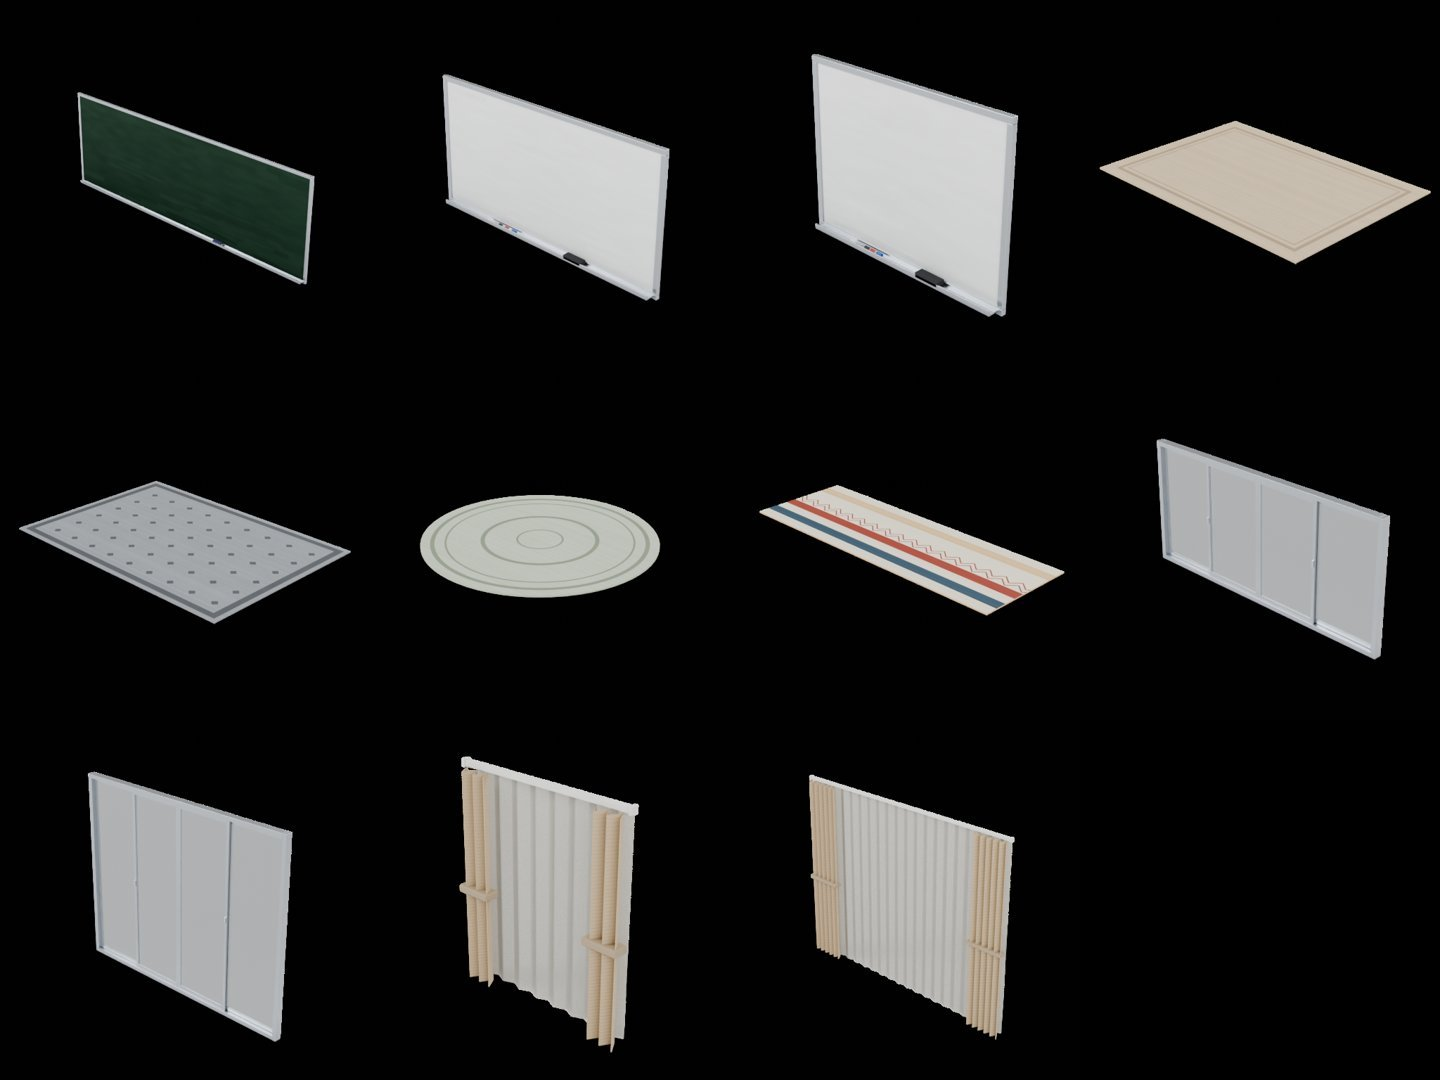
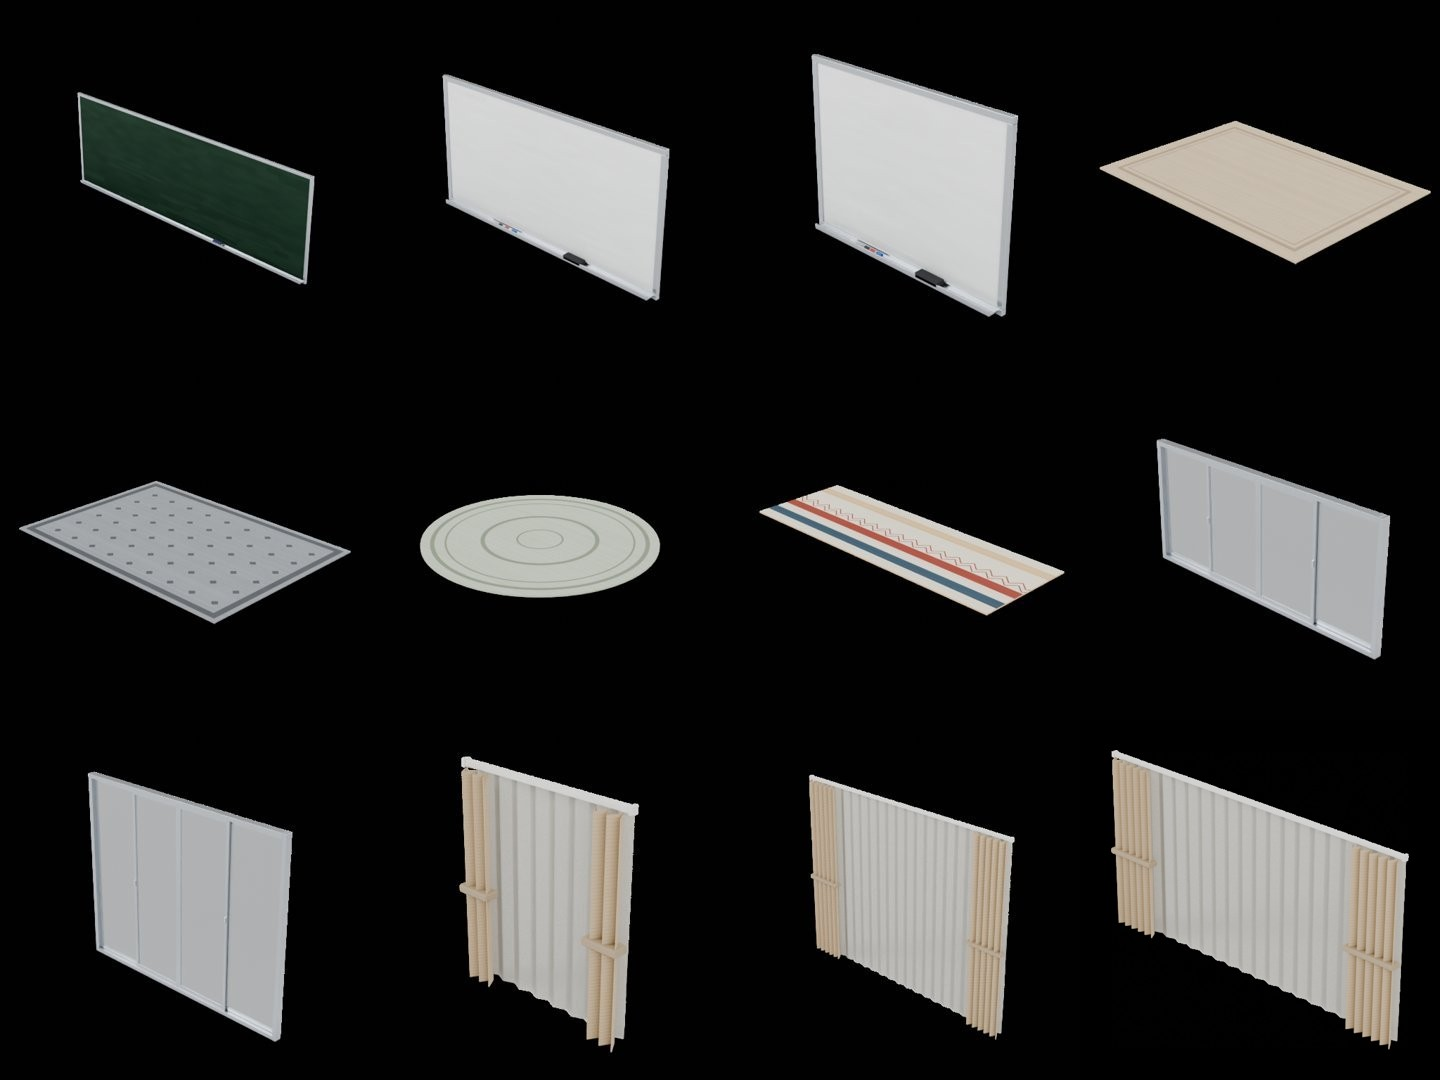
fictional: wide waist-window curtain, 2.8 x 1.35 m
The wide four-pane waist window (2560 mm) had only the 1.9 m waist-window
curtain, narrower than the window. curtain_wide_waist_window has the wide
curtain's 2.8 m rail and pleats with the waist curtain's 1350 mm drop.
577 fictional products; the index, docs and the preview image are updated.

Changed region(s): [[0.75, 0.7028, 1.0, 0.9778]]

diff --git a/src/agentic_usd_gen/fictional/windows.py b/src/agentic_usd_gen/fictional/windows.py
@@ -351,6 +351,14 @@ def curtain_small_window() -> Product:
                                 "ベージュの厚手のひだ 2 枚と白いレース）で、寸法・質量は代表値。")
 
 
+def curtain_wide_waist_window() -> Product:
+    return _curtain("curtain_wide_waist_window", "幅の広い腰窓用のカーテン（厚手 2 枚・レース、レール付き）幅 2.8 m・丈 1.35 m",
+                    2.80, 1.35, mass=6.5, gather=0.42, pleats=(40, 11),
+                    tags=["腰窓用", "幅の広い窓用", "waist window curtain", "wide window curtain"],
+                    description="形は住宅の幅の広い腰窓（幅 2560 mm の 4 枚引き違い）に掛けるカーテン（レール幅 2.8 m、"
+                                "丈 1350 mm＝窓の下端より 15 cm 長い、ベージュの厚手のひだ 2 枚と白いレース）で、寸法・質量は代表値。")
+
+
 def curtain_wide_window() -> Product:
     return _curtain("curtain_wide_window", "幅の広い掃き出し窓用のカーテン（厚手 2 枚・レース、レール付き）幅 2.8 m・丈 2.1 m",
                     2.80, 2.08, mass=9.0, gather=0.42, pleats=(40, 11),
@@ -387,5 +395,5 @@ def roll_screen() -> Product:
 PRODUCTS = {f.__name__: f for f in (
     sliding_window_waist, sliding_window_floor, bathroom_window, shop_front_window, fixed_window, casement_window,
     curtain_waist_window, curtain_floor_window, roll_screen, sliding_window_waist_wide, sliding_window_floor_wide,
-    curtain_small_window, curtain_wide_window,
+    curtain_small_window, curtain_wide_window, curtain_wide_waist_window,
 )}

diff --git a/tests/test_spec.py b/tests/test_spec.py
@@ -66,7 +66,7 @@ def test_fictional_products(tmp_path):
     from agentic_usd_gen.fictional.registry import PRODUCTS
     from agentic_usd_gen.spec import ProductSpec
 
-    assert len(PRODUCTS) == 576
+    assert len(PRODUCTS) == 577
     for name in ("cup_noodle_tall", "potato_chips_bag"):
         d = write(PRODUCTS[name](), tmp_path)
         spec = ProductSpec.load(d / "spec.json")

diff --git a/README.md b/README.md
@@ -1,6 +1,6 @@
 # agentic-usd-gen
 
-Generate simulation-ready USD assets for NVIDIA Isaac Sim from a product name. Claude works as an agent: it searches the web and opens pages on its own to find the dimensions and images. Then Blender builds the 3D model, and OpenUSD (`pxr`) adds physics and materials and validates the result. A second entry point draws 576 fictional Japanese retail products and store fixtures without using any real brand, logo or product photo. The documentation is in Japanese. Licensed under Apache-2.0.
+Generate simulation-ready USD assets for NVIDIA Isaac Sim from a product name. Claude works as an agent: it searches the web and opens pages on its own to find the dimensions and images. Then Blender builds the 3D model, and OpenUSD (`pxr`) adds physics and materials and validates the result. A second entry point draws 577 fictional Japanese retail products and store fixtures without using any real brand, logo or product photo. The documentation is in Japanese. Licensed under Apache-2.0.
 
 商品名を渡すと、AIエージェント（Claude）が自分でWebを検索して寸法と画像を調べ、Blenderで3Dモデルを作ってIsaac Sim向けのUSDを書き出すツールです。
 
@@ -23,7 +23,7 @@ Generate simulation-ready USD assets for NVIDIA Isaac Sim from a product name. C
 | コマンド | 何をするか | APIキー | 作ったアセットの公開 |
 |---|---|---|---|
 | `agentic-usd-gen <商品名>` | 実在の商品を検索し、商品ページの画像をテクスチャにして作る | 要る | できない（下の注意） |
-| `agentic-usd-gen-fictional` | 架空の商品576点（商品・什器・内装）を、実在の商品名・ロゴ・商品写真を使わずに描いて作る（[docs/fictional.md](docs/fictional.md)） | 要らない | できる |
+| `agentic-usd-gen-fictional` | 架空の商品577点（商品・什器・内装）を、実在の商品名・ロゴ・商品写真を使わずに描いて作る（[docs/fictional.md](docs/fictional.md)） | 要らない | できる |
 
 > [!CAUTION]
 > `agentic-usd-gen <商品名>`で作ったアセットは、実在の商品の画像を含みます。画像の権利は元の権利者にあるので、そのアセット（テクスチャ・USD）を公開・再配布しないでください。検索や画像の取得が各サイトの利用規約に合っているかも、使う人の責任で確かめてください。公開するアセットは`agentic-usd-gen-fictional`で作ります。
@@ -88,7 +88,7 @@ uv run agentic-usd-gen "緑茶 600ml PET" --usdz --preview
 uv run agentic-usd-gen-fictional soda_pet_500ml --out out/fictional --preview
 ```
 
-- `soda_pet_500ml`は作る商品の名前（slug）です。ほかのslugに替えたり、空白で区切っていくつも並べたりできます。`--all`を付けると576点すべてを作ります。
+- `soda_pet_500ml`は作る商品の名前（slug）です。ほかのslugに替えたり、空白で区切っていくつも並べたりできます。`--all`を付けると577点すべてを作ります。
 - 指定できるslugは`uv run agentic-usd-gen-fictional --list`で、分類・形状・品名と一緒に一覧できます（何も作りません）。後ろに語を並べると絞り込めます（例: `--list pouch food`）。分野ごとのまとめは[docs/fictional.md](docs/fictional.md)にあります。
 - 下の表のオプションは、`--dims`・`--image`・`--slug`・`--refresh`など検索して作るとき専用のものを除いて、`agentic-usd-gen-fictional`にもそのまま渡せます。
 

diff --git a/docs/fictional.md b/docs/fictional.md
@@ -1,7 +1,7 @@
 # 架空の商品
 
 実在の商品名・ブランド名・ロゴ・商品写真を使わないアセットを作ります。公開リポジトリに置く用途を想定しています。
-576点を定義しています（`src/agentic_usd_gen/fictional/`の下。slugの一覧は`agentic-usd-gen-fictional --list`）。
+577点を定義しています（`src/agentic_usd_gen/fictional/`の下。slugの一覧は`agentic-usd-gen-fictional --list`）。
 
 ![架空の商品のプレビュー8点。上段は回転体の緑茶のペットボトル・カップ麺・いちごジャムの瓶と、袋のポテトチップス。下段は箱のバタークッキー・牛乳の紙パックと、什器のセルフレジ・買い物カート](images/fictional-preview.webp)
 
@@ -22,7 +22,7 @@
 | 飲食店 | `restaurant_dining.py`・`restaurant_equipment.py`・`restaurant_food.py`・`restaurant_kitchen.py`・`restaurant_tableware.py` | 48 | 客席の家具・配膳の備品・皿に盛った料理・業務用厨房機器・食器 |
 | 専門店・そのほかの店 | `specialty_shops.py`・`store_kinds.py`・`misc_shops.py` | 69 | 自転車店・和菓子店・レコード店・スポーツ用品店・家具店・花屋・おもちゃ屋・ペットショップ・靴屋・眼鏡店・酒屋など |
 | バックヤード・物流 | `backyard.py` | 13 | カゴ台車・番重・折りたたみコンテナ・段ボール箱・ハンドリフト・スチールラック |
-| 内装・建具 | `store_env.py`・`interior.py`・`windows.py`・`room_goods.py` | 58 | 床・壁・天井・照明・掲示物・ドア・トイレ・間仕切り・窓・カーテン・黒板・ホワイトボード・ラグ |
+| 内装・建具 | `store_env.py`・`interior.py`・`windows.py`・`room_goods.py` | 59 | 床・壁・天井・照明・掲示物・ドア・トイレ・間仕切り・窓・カーテン・黒板・ホワイトボード・ラグ |
 | 植物工場 | `farm.py` | 4 | イチゴの栽培ラック・ポット苗・AGVの誘導テープ |
 
 ## 見本
@@ -45,7 +45,7 @@
 
 ### 教室・オフィス・住宅の内装
 
-![壁掛けの黒板・ホワイトボード2点、ラグ4点（ベージュ・グレーの柄・丸・ランナー）、4枚引き違いの腰窓・掃き出し窓、小さな窓用と幅の広い窓用のカーテン](images/room_goods.jpg)
+![壁掛けの黒板・ホワイトボード2点、ラグ4点（ベージュ・グレーの柄・丸・ランナー）、4枚引き違いの腰窓・掃き出し窓、小さな窓用・幅の広い窓用・幅の広い腰窓用のカーテン](images/room_goods.jpg)
 
 ### パン屋
 

diff --git a/docs/index.md b/docs/index.md
@@ -23,7 +23,7 @@
 | コマンド | 何をするか | APIキー | 作ったアセットの公開 |
 |---|---|---|---|
 | `agentic-usd-gen <商品名>` | 実在の商品を検索し、商品ページの画像をテクスチャにして作る | 要る | できない |
-| `agentic-usd-gen-fictional` | [架空の商品](fictional.md) 576点（商品・什器・内装）を、実在の商品名・ロゴ・商品写真を使わずに描いて作る | 要らない | できる |
+| `agentic-usd-gen-fictional` | [架空の商品](fictional.md) 577点（商品・什器・内装）を、実在の商品名・ロゴ・商品写真を使わずに描いて作る | 要らない | できる |
 
 > [!CAUTION]
 > `agentic-usd-gen <商品名>`で作ったアセットは、実在の商品の画像を含みます。画像の権利は元の権利者にあるので、そのアセット（テクスチャ・USD）を公開・再配布しないでください。公開するアセットは`agentic-usd-gen-fictional`で作ります。
@@ -50,7 +50,7 @@ uv sync
 uv run agentic-usd-gen-fictional soda_pet_500ml --out out/fictional --preview
 ```
 
-- `soda_pet_500ml`は作る商品の名前（slug）です。ほかのslugに替えたり、空白で区切っていくつも並べたりできます（例: `cup_noodle_tall potato_chips_bag`）。`--all`を付けると576点すべてを作ります。
+- `soda_pet_500ml`は作る商品の名前（slug）です。ほかのslugに替えたり、空白で区切っていくつも並べたりできます（例: `cup_noodle_tall potato_chips_bag`）。`--all`を付けると577点すべてを作ります。
 - 指定できるslugは`uv run agentic-usd-gen-fictional --list`で、分類・形状・品名と一緒に一覧できます（何も作りません）。後ろに語を並べると絞り込めます（例: `--list pouch food`）。分野ごとのまとめは[架空の商品](fictional.md)にあります。
 - `--out`は出力先のフォルダ、`--preview`はプレビュー画像も描く指定です。できたUSDは`out/fictional/soda_pet_500ml/`に入ります。
 

diff --git a/docs/usage.md b/docs/usage.md
@@ -47,7 +47,7 @@ uv run agentic-usd-gen "緑茶 600ml PET" --usdz --preview
 uv run agentic-usd-gen-fictional soda_pet_500ml --out out/fictional --preview
 ```
 
-- `soda_pet_500ml`は作る商品の名前（slug）です。ほかのslugに替えたり、空白で区切っていくつも並べたりできます。`--all`を付けると576点すべてを作ります。
+- `soda_pet_500ml`は作る商品の名前（slug）です。ほかのslugに替えたり、空白で区切っていくつも並べたりできます。`--all`を付けると577点すべてを作ります。
 - 指定できるslugは`uv run agentic-usd-gen-fictional --list`で、分類・形状・品名と一緒に一覧できます（何も作りません）。後ろに語を並べると絞り込めます（例: `--list pouch food`）。分野ごとのまとめは[架空の商品](fictional.md)にあります。
 - 下の表のオプションは、`--dims`・`--image`・`--slug`・`--refresh`など検索して作るとき専用のものを除いて、`agentic-usd-gen-fictional`にもそのまま渡せます。
 
